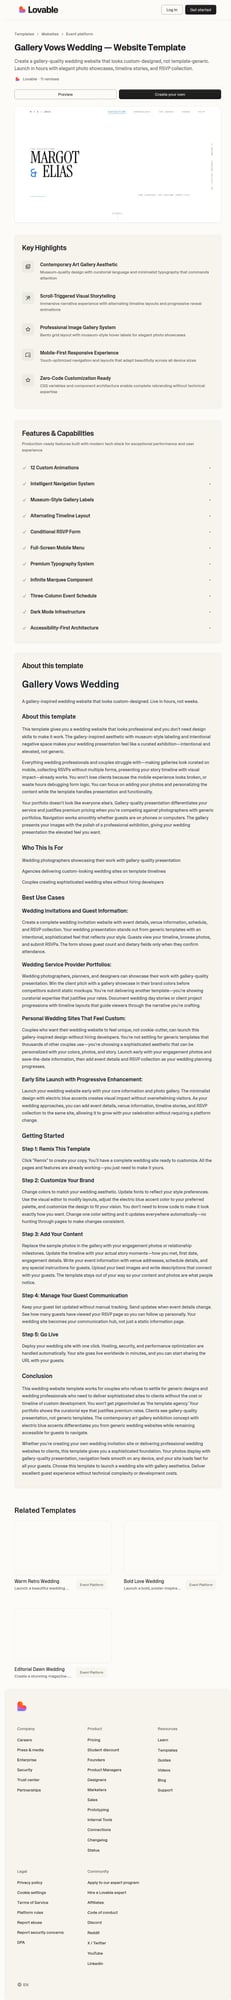
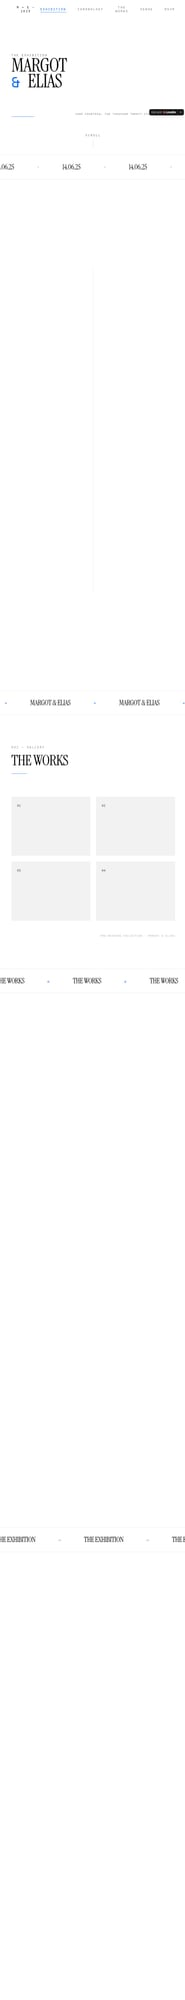
Update Lovable wedding previews (4 templates)

diff --git a/design analysis/lovable/warm-retro-wedding.md b/design analysis/lovable/warm-retro-wedding.md
@@ -3,44 +3,45 @@
 ![Screenshot](../images/lovable/warm-retro-wedding.jpg)
 
 ## Overview
-A warm, retro‑inspired wedding website template with soft textures, classic typography, and a gentle romance aesthetic. It positions the page as an all‑in‑one wedding hub: story, details, and RSVP.
+A warm, vintage‑inspired one‑page wedding site with framed panels, soft textures, and classic serif typography. It reads like a printed invitation brought to life: story timeline, event logistics, and a full RSVP form.
 
 ## Layout
-- **Global header** with Lovable navigation and CTA buttons.
-- **Hero preview frame** centered below the page title, showing the wedding homepage.
-- **Key Highlights** card list summarizing value props.
-- **Features & Capabilities** accordion list for deeper detail.
-- **Long‑form “About this template”** with sections, use cases, and setup steps.
-- **Related templates** grid + site footer.
+- **Hero invitation**: “Together with their families” line, couple names, and date block.
+- **Our Story**: four framed timeline cards (First Meeting → Proposal) plus a quote and polaroid‑style photo trio.
+- **Event Details**: ceremony + reception cards with venue/address and “View on Map” links.
+- **Day Schedule**: stacked timeline for ceremony, cocktail hour, dinner, dancing.
+- **Dress Code**: small callout card.
+- **RSVP**: full form (name, email, attendance radio, guests dropdown, dietary, message) + CTA.
+- **Footer**: date/location, hashtag, contact email, closing line.
 
 ## UX patterns
-- “Preview / Create your own” tab switcher encourages exploration vs. remix.
-- Dense information hierarchy: quick highlights → expandable features → deep narrative.
-- Reassurance copy (no‑code, fast launch) reduces adoption friction.
+- Long‑scroll narrative; framed panels guide scanning.
+- Clear separation between story, logistics, and response actions.
+- RSVP form collects structured info without external tools.
 
 ## Animations
-- Subtle hover and focus states on buttons, cards, and accordion chevrons.
-- Likely smooth accordion expand/collapse transitions.
+Minimal; likely subtle hover states and smooth scroll only. The design relies on print‑like layout rather than motion.
 
 ## Visual style
-- Warm neutrals, soft pastel accents, and serif hero typography.
-- Spacious vertical rhythm and gentle contrast.
-- Hero uses a framed, gallery‑like presentation to feel “printed invitation.”
+- Warm cream and blush palette with maroon footer.
+- Decorative borders, fine lines, and textured background for a retro print feel.
+- Elegant serif headings + lighter body text.
 
 ## Components
-- Top nav + auth buttons
-- Hero preview frame (image/iframe)
-- Highlight cards with icons
-- Accordion feature list
-- Sectioned long‑form article
-- Related template cards
+- Invitation hero block
+- Timeline cards
+- Polaroid image trio
+- Detail cards (ceremony/reception)
+- Schedule list
+- RSVP form + CTA
+- Footer info + contact
 
 ## Framework/stack (inferred)
-- **React + Next.js** marketing page structure.
-- **Tailwind CSS** utility styling.
-- **Accordion / Card** components consistent with shadcn/ui.
+- **React / Next.js**
+- **Tailwind CSS**
+- **shadcn/ui** (Cards, Inputs, RadioGroup, Button)
 
 ## Prompt cues to recreate
-- “Design a wedding template landing page with a framed hero preview, warm neutral palette, and serif headline.”
-- “Add a highlight card list, accordion features, and long narrative sections with step‑by‑step onboarding.”
-- “Keep spacing generous, soft shadows, and understated interactions.”
+- “Create a vintage wedding one‑pager with framed panels and classic serif typography.”
+- “Include a story timeline, event detail cards, day schedule, and full RSVP form.”
+- “Use warm cream/blush tones and subtle paper texture; finish with a deep maroon footer.”

diff --git a/design analysis/lovable/gallery-vows-wedding.md b/design analysis/lovable/gallery-vows-wedding.md
@@ -3,45 +3,48 @@
 ![Screenshot](../images/lovable/gallery-vows-wedding.jpg)
 
 ## Overview
-A gallery‑first wedding template that emphasizes photography and editorial presentation. The hero preview is minimal and typographic, with the image story living deeper in the layout.
+A gallery‑inspired wedding site with curatorial language, minimalist typography, and museum‑style navigation. It frames the wedding as an “exhibition,” combining story chronology, curated works, venue, and RSVP.
 
 ## Layout
-- **Lovable header + CTA** at top.
-- **Template title block** with short description and “Preview / Create” tabs.
-- **Hero preview frame** showing a minimalist wedding landing with large typography.
-- **Key Highlights** value list.
-- **Features & Capabilities** accordion list.
-- **Detailed narrative**: about, audience fit, use cases, setup steps.
-- **Related templates + footer**.
+- **Top nav**: “M+E — 2025” badge and section anchors (Exhibition, Chronology, The Works, Venue, RSVP).
+- **Hero**: couple names with gallery‑style captioning and date line.
+- **Chronology**: vertical story milestones with short, poetic captions.
+- **The Works**: curated image grid with exhibit‑style labels.
+- **Venue**: location copy, address, map link, and featured venue image.
+- **Schedule**: time‑based itinerary cards.
+- **Dress code + Photography** notes.
+- **RSVP**: simple form with attendance buttons, guest count, dietary notes, message.
+- **Footer**: contact email, social handle, hashtag, and back‑to‑top.
 
 ## UX patterns
-- Emphasis on “gallery” and storytelling; copy reinforces visual storytelling.
-- Preview frame acts as proof‑of‑quality before the long explanation.
-- Accordion keeps dense features scannable.
+- Section anchor navigation for quick jumping in a long scroll.
+- Editorial tone reinforces premium/curated feel.
+- Minimalist form to reduce RSVP friction.
 
 ## Animations
-- Micro‑interactions on buttons and feature accordions.
-- Smooth hover states for cards/links.
+Likely subtle (hover + anchor scroll). The aesthetic leans static, gallery‑like.
 
 ## Visual style
-- Very light, gallery‑white background.
-- Elegant serif + sans mix for editorial tone.
-- Minimal framing around the preview to spotlight typography.
+- High‑white space, museum catalog vibe.
+- Clean serif/sans pairing with thin rules and understated accents.
+- Image tiles labeled like exhibit plaques.
 
 ## Components
-- Header navigation + auth CTAs
-- Preview frame
-- Highlights list (icon + text)
-- Accordion list
-- Long‑form article blocks
-- Related template cards
+- Anchor nav bar
+- Section headers with sublabels
+- Timeline list
+- Gallery grid
+- Venue card + map link
+- Schedule list
+- RSVP form + buttons
+- Footer contact + hashtag
 
 ## Framework/stack (inferred)
-- **Next.js + React**
+- **React / Next.js**
 - **Tailwind CSS**
-- **shadcn/ui** for cards/accordions/buttons
+- **shadcn/ui**
 
 ## Prompt cues to recreate
-- “Create a gallery‑style wedding template page with minimal hero preview and editorial typography.”
-- “Use a white background, thin borders, and an art‑gallery tone.”
-- “Provide highlights + accordion features + long‑form narrative sections.”
+- “Create a wedding site styled like a contemporary art gallery exhibition.”
+- “Use anchor navigation, a chronology timeline, and a curated gallery grid with exhibit labels.”
+- “Keep typography minimal and whitespace heavy; add venue, schedule, and RSVP sections.”

diff --git a/design analysis/lovable/ivory-whispers-wedding.md b/design analysis/lovable/ivory-whispers-wedding.md
@@ -3,44 +3,44 @@
 ![Screenshot](../images/lovable/ivory-whispers-wedding.jpg)
 
 ## Overview
-A soft, minimal wedding template centered on elegance and simplicity. The ivory palette, delicate typography, and restrained layout make it feel timeless and understated.
+A soft, romantic wedding one‑pager with literary storytelling and understated elegance. The design uses generous whitespace, delicate serif typography, and warm neutral tones to feel intimate and timeless.
 
 ## Layout
-- **Top nav + CTA** and template header.
-- **Preview/Create tabs** above the hero frame.
-- **Hero preview frame** with minimalist wedding card aesthetic.
-- **Key Highlights** section.
-- **Features & Capabilities** accordion.
-- **Long narrative** sections and onboarding steps.
-- **Related templates + footer**.
+- **Hero**: couple names, date line, and venue title with a subtle scroll cue.
+- **Photo trio**: three portrait images in a row for mood‑setting.
+- **Our Story**: long‑form narrative in four chapters (Spring 2019 → Now) with pull quotes.
+- **Celebration**: two feature cards (Ceremony + Reception) with venue images and info.
+- **Gentle Notes**: attire, unplugged ceremony, accommodations.
+- **RSVP**: full form (name, email, attendance, guests, dietary, message) + CTA.
+- **Footer**: closing line with couple names + date.
 
 ## UX patterns
-- Minimal hero to communicate calm and clarity.
-- Value props delivered in short highlight list, then deeper accordion details.
-- Strong onboarding guidance in step list.
+- Scroll‑first storytelling; content reads like a letter.
+- Clear separation between narrative and logistics.
+- RSVP form structured for full guest details.
 
 ## Animations
-- Minimal motion: hover/focus states and accordion transitions.
+Minimal, likely subtle hover and smooth scroll. Emotional impact comes from typography and spacing.
 
 ## Visual style
-- Ivory and soft beige palette.
-- Fine‑weight serif typography and lots of whitespace.
-- Clean framing with subtle borders/shadows.
+- Ivory/cream palette with warm brown accents.
+- Elegant serif titles and airy body copy.
+- Calm, poetic tone supported by ample whitespace.
 
 ## Components
-- Header nav + CTAs
-- Preview frame
-- Highlights card list
-- Accordion feature list
-- Long‑form article sections
-- Related template cards
+- Hero title block
+- Image gallery trio
+- Long‑form story sections
+- Venue cards
+- Notes list
+- RSVP form + CTA
 
 ## Framework/stack (inferred)
-- **Next.js + React**
+- **React / Next.js**
 - **Tailwind CSS**
-- **shadcn/ui**
+- **shadcn/ui** (forms + buttons)
 
 ## Prompt cues to recreate
-- “Design a minimalist wedding template page with ivory palette, delicate serif type, and lots of whitespace.”
-- “Use a simple framed hero preview, highlight list, and accordion features.”
-- “Keep interactions subtle and elegant.”
+- “Design a soft, romantic wedding one‑pager with lots of whitespace and elegant serif typography.”
+- “Include a three‑photo row, long‑form story chapters, and two venue cards.”
+- “Add a detailed RSVP form and gentle notes for attire and accommodations.”

diff --git a/design analysis/lovable/editorial-dawn-wedding.md b/design analysis/lovable/editorial-dawn-wedding.md
@@ -3,44 +3,43 @@
 ![Screenshot](../images/lovable/editorial-dawn-wedding.jpg)
 
 ## Overview
-A magazine‑style wedding template with cinematic imagery and editorial typography. The layout conveys sophistication and a premium, story‑driven feel.
+A magazine‑style wedding one‑pager with cinematic hero imagery, refined serif typography, and editorial sectioning. It blends story, countdown, event details, and RSVP into a premium, fashion‑editorial layout.
 
 ## Layout
-- **Header + template title** with CTA and preview/create tabs.
-- **Hero preview frame** showing a dark, photographic banner with dramatic serif text.
-- **Key Highlights** section.
-- **Features & Capabilities** accordion.
-- **Extended narrative**: about, audience, use cases, steps.
-- **Related templates + footer**.
+- **Hero**: full‑bleed couple image + large serif names, date line, and location.
+- **Story**: timeline of five moments with image + text pairings and a pull quote.
+- **Countdown**: “The Big Day” timer block with days/hours/minutes/seconds.
+- **Event Details**: three cards (Ceremony, Cocktail Hour, Reception) with venue copy.
+- **RSVP**: compact form (name, email, attendance radio, note) + CTA.
+- **Footer**: date/location line + closing note.
 
 ## UX patterns
-- The hero preview acts as the emotional hook.
-- Long‑form content builds trust and positions the template as professional‑grade.
-- Accordion keeps the feature list digestible.
+- Anchor nav (Our Story / Details / RSVP) for quick jumps.
+- Alternating image/story blocks for rhythm.
+- Countdown adds urgency/anticipation.
 
 ## Animations
-- Subtle hover states on CTAs.
-- Smooth accordion expansion.
+Likely smooth scroll and subtle fades; relies on imagery and typography for drama.
 
 ## Visual style
-- Dark, cinematic hero imagery with soft glow.
-- Serif headlines paired with clean sans body text.
-- Premium editorial spacing and section breaks.
+- Dark, cinematic hero image with cream typography.
+- Editorial serif headings with generous spacing.
+- Soft neutral background + large image blocks.
 
 ## Components
-- Nav header + CTA
-- Preview frame
-- Highlights list
-- Accordion features
-- Long‑form sections
-- Related template grid
+- Top nav + anchors
+- Hero image + title block
+- Timeline cards
+- Countdown widget
+- Event cards
+- RSVP form + CTA
 
 ## Framework/stack (inferred)
-- **Next.js + React**
+- **React / Next.js**
 - **Tailwind CSS**
 - **shadcn/ui**
 
 ## Prompt cues to recreate
-- “Create a magazine‑style wedding template page with dark cinematic hero imagery and serif headlines.”
-- “Use a framed preview, highlight list, and accordion features.”
-- “Keep spacing editorial and premium.”
+- “Create a magazine‑style wedding site with a cinematic hero image and editorial serif typography.”
+- “Include a story timeline, countdown timer, event details cards, and a minimal RSVP form.”
+- “Use high‑contrast hero imagery with soft neutral sections below.”
